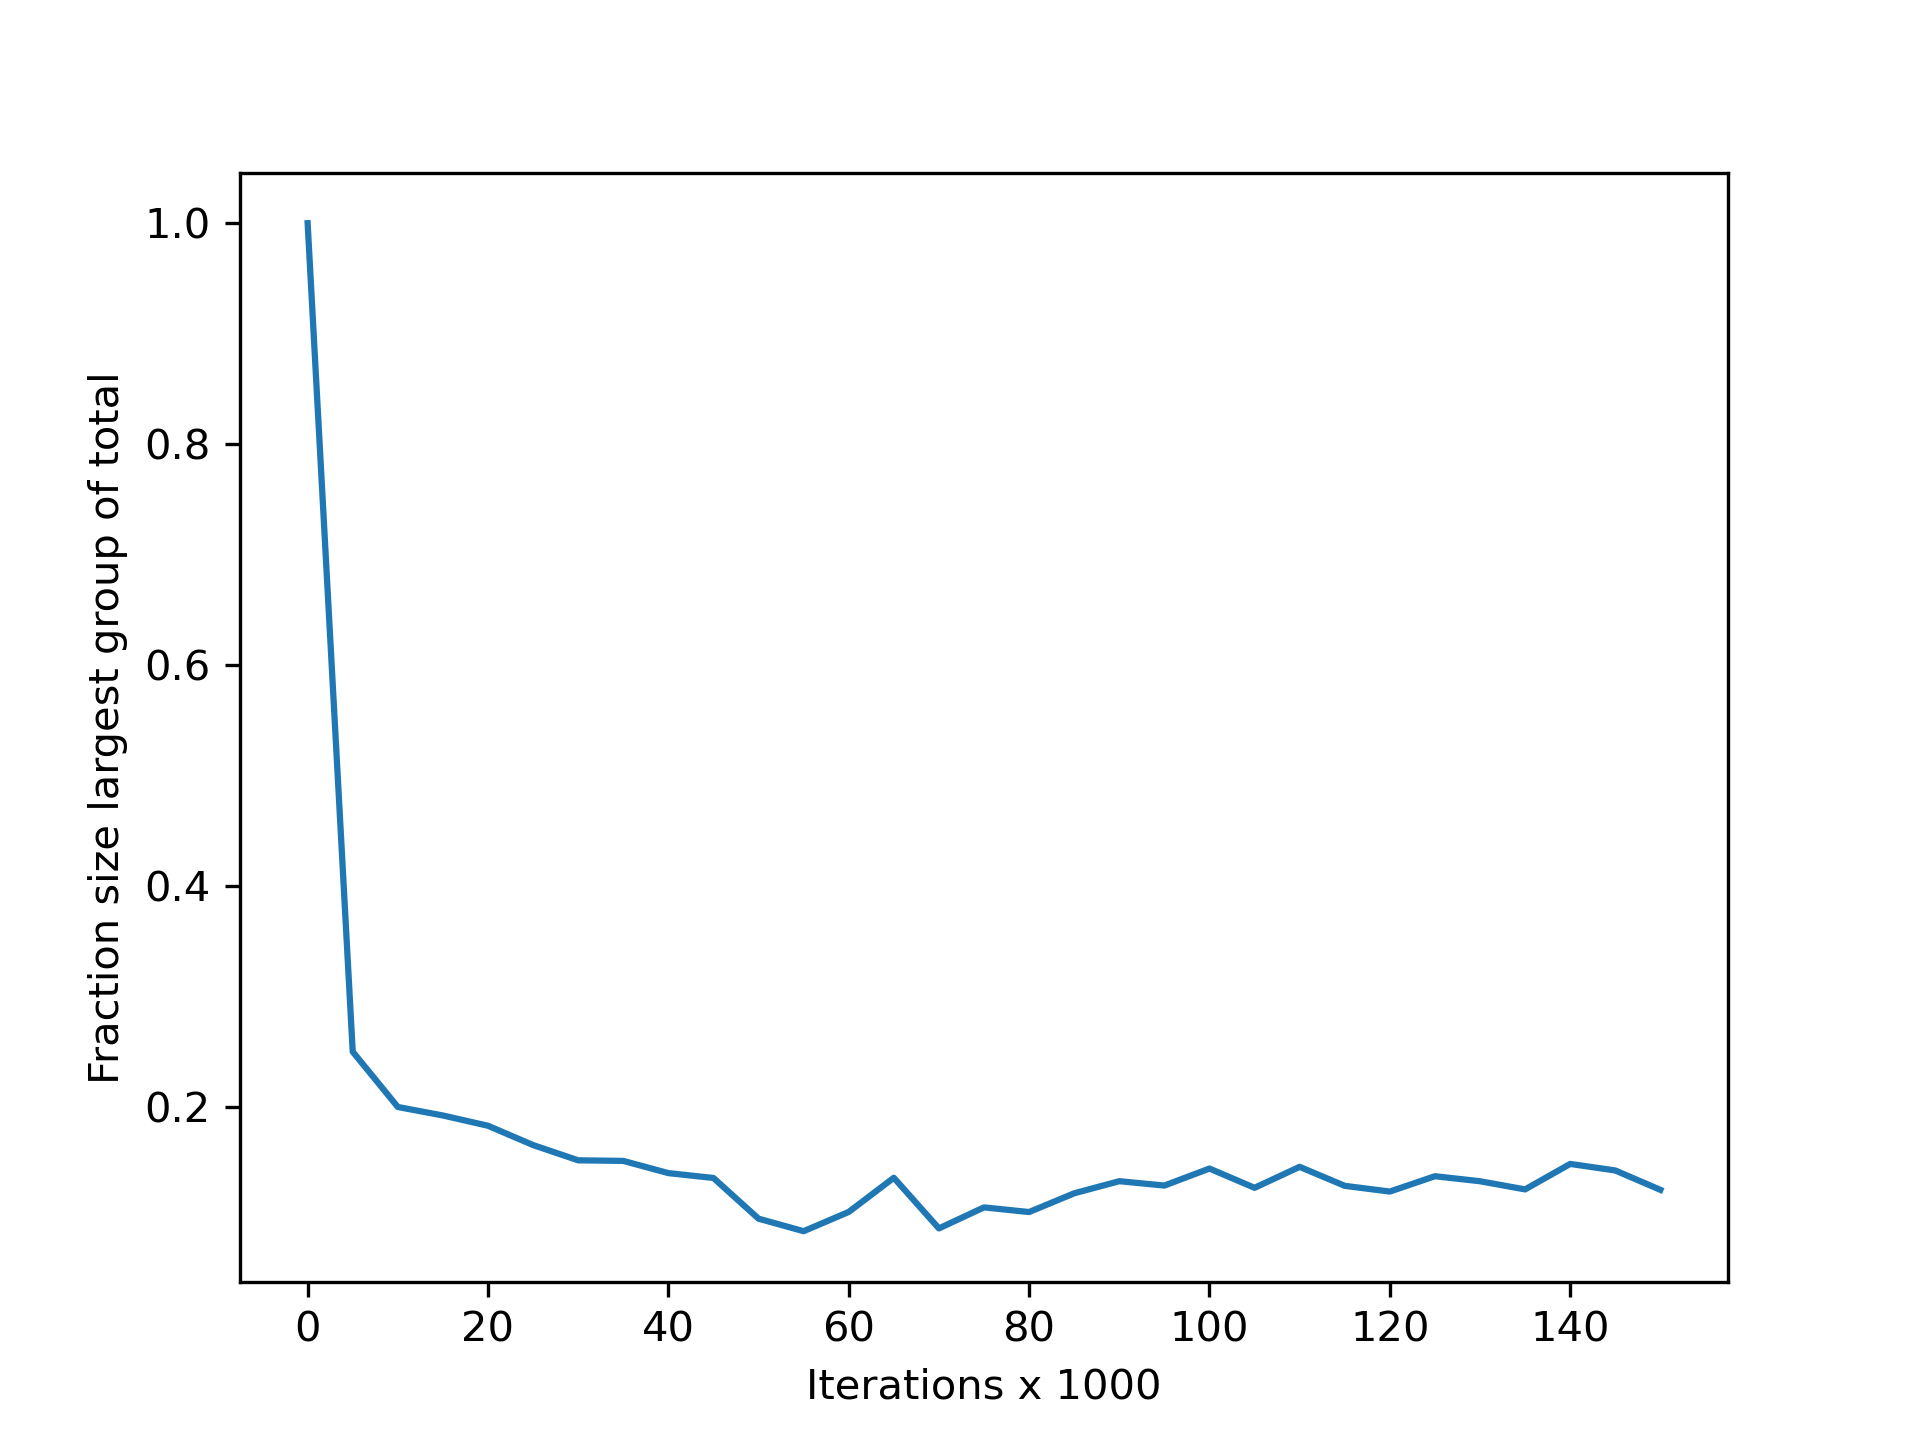
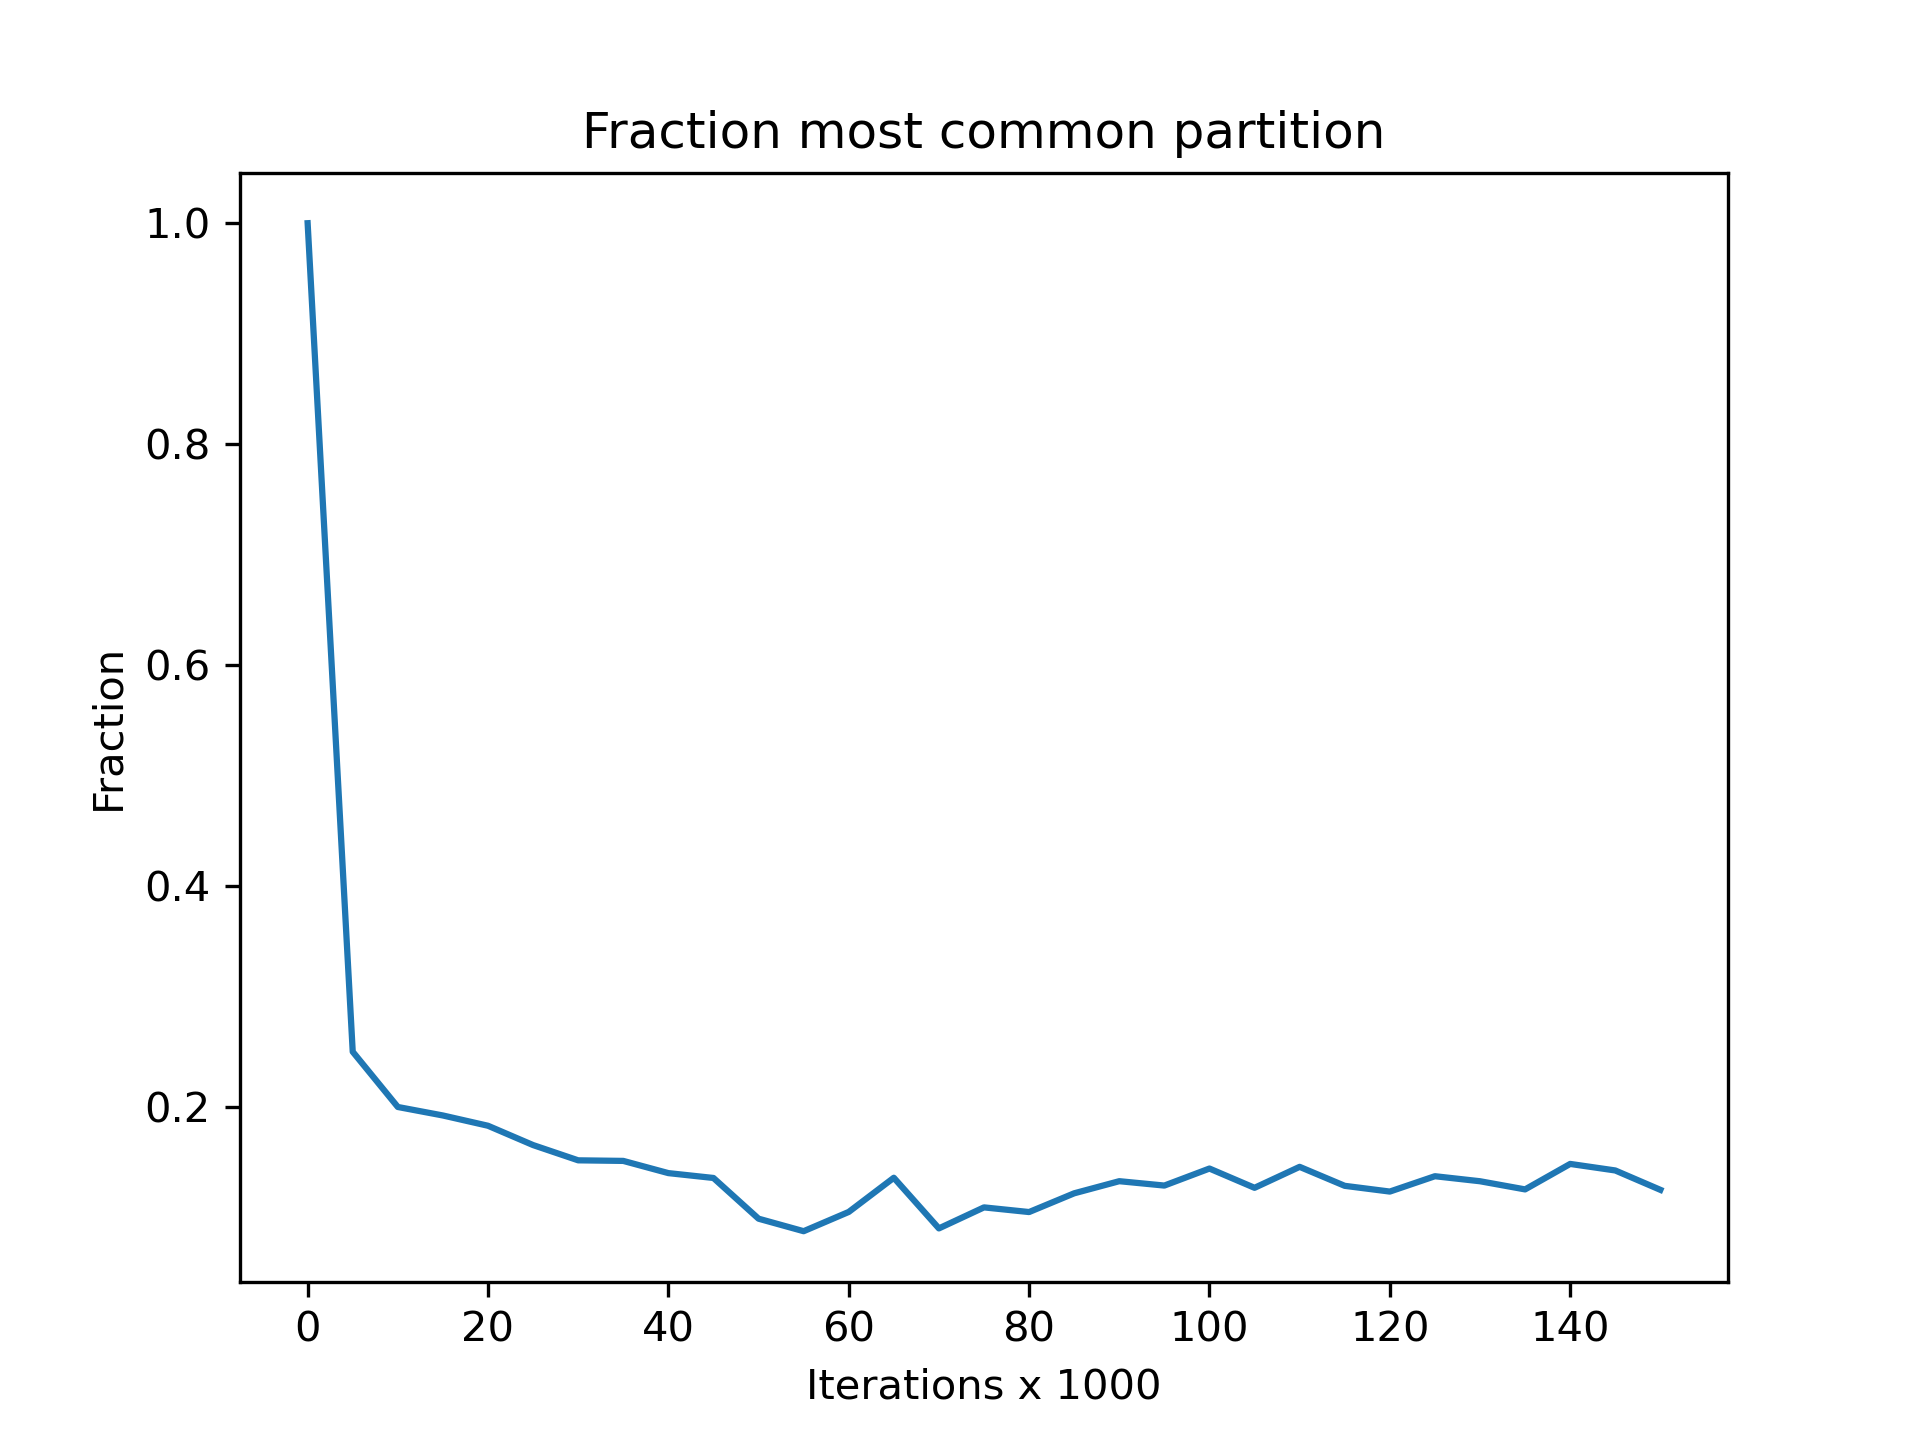
change readme

Changed region(s): [[0.3125, 0.0625, 0.7188, 0.125], [0.0312, 0.25, 0.0625, 0.75]]

diff --git a/Code/Dante_analysis.py b/Code/Dante_analysis.py
@@ -11,8 +11,9 @@ data.columns=["time step", "number of clusters", "number of clusters with tokens
 "number of cells", "number of particles", "number of tokens", "total internal energy", "total kinetic energy"]
 
 plt.plot(data["time step"]/1000,data["number of clusters with tokens"])
-plt.ylabel("Number of active clusters")
-plt.xlabel("Iterations x 1000")
+plt.title("Active clusters")
+plt.ylabel("Number of clusters")
+plt.xlabel("Time step")
 plt.savefig("Project/CSS_Alien/Plots/active_clusters.png",dpi=300)
 plt.show()
 
@@ -40,19 +41,22 @@ for i in range(31):
 x = np.linspace(0,150,31)
 
 plt.plot(x,total_data)
-plt.ylabel("Number of species")
+plt.title("Repetitive clusters")
+plt.ylabel("Number of partitions")
 plt.xlabel("Iterations x 1000")
 plt.savefig("Project/CSS_Alien/Plots/num_species.png",dpi=300)
 plt.show()
 
 plt.plot(x,biggest_data)
-plt.ylabel("Size of ruling species")
+plt.title("Most common repetitive cluster (partition)")
+plt.ylabel("Number of clusters")
 plt.xlabel("Iterations x 1000")
 plt.savefig("Project/CSS_Alien/Plots/num_ruling.png",dpi=300)
 plt.show()
 
 plt.plot(x,np.array(biggest_data)/np.array(sum_data))
-plt.ylabel("Fraction size largest group of total")
+plt.title("Fraction most common partition")
+plt.ylabel("Fraction")
 plt.xlabel("Iterations x 1000")
 plt.savefig("Project/CSS_Alien/Plots/fraction_species.png",dpi=300)
 plt.show()

diff --git a/README.md b/README.md
@@ -4,6 +4,8 @@ This repository contains data and code used for the final project of the Complex
 
 ![sim9b-large](Plots/Additional_Media/sim9b-large.png)
 
+### Contents
+
 In this repository you will find different folders containing setups needed in order to run the simulations used for our project. Furthermore, data extracted during these simulations is found in the [Data](https://github.com/DCCdelang/CSS_Alien/tree/main/Data) folder. For the general data every 200 msec data was gathered on the time step, number of clusters, number of clusters with tokens, number of cells, number of particles, number of tokens, total internal energy and the total kinetic energy.
 
 The [Pattern_data](https://github.com/DCCdelang/CSS_Alien/tree/main/Pattern_data) folder contains more in-depth data on simulations were for each 10 or 5 thousand iterations data was stored containing an overview on the species distributions. This information was used using an extra functionality that calculates the size of the repetitive species while also capturing them in a collection (.col) file, which in turn can be opened again in the model.
@@ -16,7 +18,25 @@ In the above three images snapshots are shown of the setup-OTS-02.sim file with 
 
 For further data analysis the code can be found in the [Code](https://github.com/DCCdelang/CSS_Alien/tree/main/Code) folder and some plots in the [Plots](https://github.com/DCCdelang/CSS_Alien/tree/main/Plots) folder. This analyses was done using both the general data and the pattern data. 
 
-Contributors:
+### How to execute a simulation
+
+A build of the ALiEn project that was used for our research is available at [this link](http://alien-project.org/files/build_develop_branch.zip). This is a pre-build version which contains the executable necessary to open the program. When opening the program it is possible to load a simulation, there are off the shelf models available. 
+
+A good start in order to get a grip of the program is going through the tutorials section in the new [documentation](https://alien-project.org/documentation/Introduction.html). Here it is also possible to download the simulations or clusters used in those tutorials.  Of course it is also possible to load the simulations that are available in the [Simulations](https://github.com/DCCdelang/CSS_Alien/tree/main/Simulations) folder. 
+
+It is also possible to create your own simulation, this can be done by clicking new under the simulation menu button after which it becomes possible to adjust the general settings of the model (these can also be changed later). After initializing it is possible to load collections, these can also be existing .col files created by the author or one could choose to develop your own cell clusters. This becomes possible when you are zoomed in enough too see the controls below the menu bar. 
+
+Another important aspect of the program can be found under settings > simulation parameters. Using this menu it becomes possible to alter a lot of parameters that can greatly influence the outcome of a simulation. These parameter settings can then also be saved independently in order to be used again in different simulations. 
+
+For more information of the program it is best to consult the new [documentation](https://alien-project.org/documentation/Introduction.html) or the [website](https://alien-project.org/index.html).
+
+### Minimal system requirements
+
+An Nvidia graphics card with compute capability 6.0 or higher is needed. Please check https://en.wikipedia.org/wiki/CUDA#GPUs_supported.
+
+For some graphics cards of the GeForce 10 series there are reported issues that are currently being investigated.
+
+#### Contributors:
 
 Alicja Grudnowska
 
